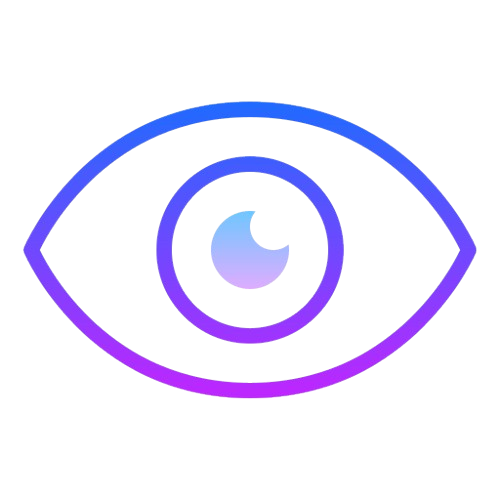
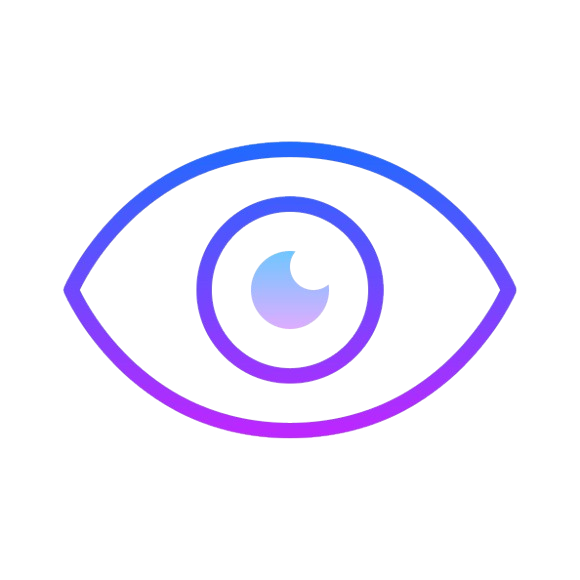
1

Changed region(s): [[0.03, 0.18, 0.96, 0.81], [0.42, 0.45, 0.6, 0.6], [0.45, 0.42, 0.51, 0.45]]

diff --git a/Forms/MonthlyExpensesForm.cs b/Forms/MonthlyExpensesForm.cs
@@ -56,8 +56,8 @@ namespace GenericInventorySystem.Forms
             pnlHeader.Controls.Add(lblExpensesTitle);
             
             lblTotal = new Label { 
-                Font = new Font("Segoe UI", 16F, FontStyle.Bold), 
-                ForeColor = ThemeConfig.DangerColor, 
+                Font = new Font("Segoe UI", 22F, FontStyle.Bold), 
+                ForeColor = ThemeConfig.PrimaryColor, 
                 AutoSize = true, 
                 Dock = DockStyle.Right,
                 TextAlign = ContentAlignment.MiddleRight
@@ -73,7 +73,7 @@ namespace GenericInventorySystem.Forms
                 Padding = new Padding(10),
                 BackColor = ThemeConfig.SurfaceColor 
             };
-            grid.ColumnStyles.Add(new ColumnStyle(SizeType.Absolute, 180F)); // Category
+            grid.ColumnStyles.Add(new ColumnStyle(SizeType.Absolute, 190F)); // Category
             grid.ColumnStyles.Add(new ColumnStyle(SizeType.Absolute, 200F)); // Date (Increased from 180)
             grid.ColumnStyles.Add(new ColumnStyle(SizeType.Absolute, 150F)); // Amount (Increased from 120)
             grid.ColumnStyles.Add(new ColumnStyle(SizeType.Absolute, 350F)); // Description
@@ -112,7 +112,7 @@ namespace GenericInventorySystem.Forms
             pnlCatContainer.Controls.Add(cmbCategory);
             pnlCatContainer.Controls.Add(btnQuickAddCat);
             
-            Panel pnlDate = new Panel { Dock = DockStyle.Fill, Margin = new Padding(5, 5, 5, 10) };
+            Panel pnlDate = new Panel { Dock = DockStyle.Fill, Margin = new Padding(10, 5, 5, 10) };
             Label lblDateRef = new Label { 
                 Text = LocalizationManager.GetString("Hist_ColDate") ?? "Date", 
                 Font = ThemeConfig.SmallBoldFont, 

diff --git a/Forms/POSForm.cs b/Forms/POSForm.cs
@@ -268,7 +268,7 @@ namespace GenericInventorySystem.Forms
         private Panel CreateCardPanel()
         {
             Panel p = new Panel(); 
-            p.BackColor = Color.Transparent; 
+            p.BackColor = ThemeConfig.SurfaceColor; 
             p.BorderStyle = BorderStyle.None;
             p.Padding = new Padding(15);
             

diff --git a/Forms/BaseModalForm.cs b/Forms/BaseModalForm.cs
@@ -32,6 +32,7 @@ namespace GenericInventorySystem.Forms
         {
             this.DoubleBuffered = true;
             this.FormBorderStyle = FormBorderStyle.None;
+            this.BackColor = Color.White;
             this.StartPosition = FormStartPosition.CenterParent;
 
             this.Padding = new Padding(0);
